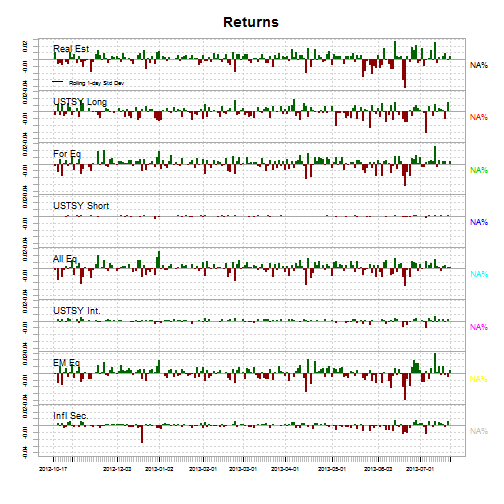
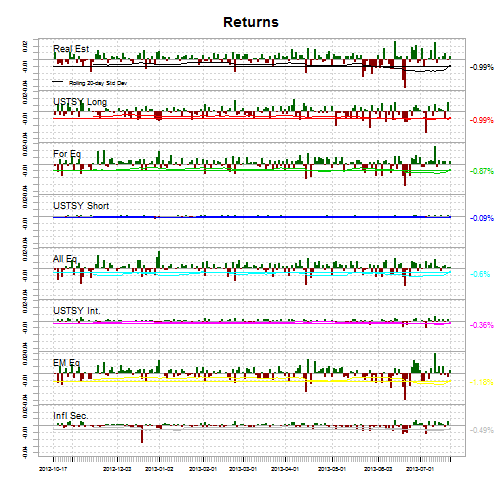
still trying

diff --git a/_posts/2013-07-22-implementing-swensen-in-R.md b/_posts/2013-07-22-implementing-swensen-in-R.md
@@ -24,7 +24,7 @@ From the article I linked to above...
 
 Asset Class | %
 ----------- | --
-Domestic Stocks | 30%
+Domestic Stocks	| 30%
 Foreign Developed Stocks | 15%
 Emerging Market Stocks | 5%
 Real Estate and Natural Resources | 20%
@@ -40,7 +40,6 @@ So, on October 17th, 2012 I deployed an initial investment of 250,000 into the f
 of ETFs. This post is going to show you how to monitor such a portfolio in R. For people familiar with quantmod and Performance Analytics, the discussion will be pretty rudimentary. In the next post I will try to raise some questions about VaR excessions, drawdowns, and de-risking. So, let's get started.
 
 First we need to specify a data source and the tickers for our portfolio. I'll also fetch data for the DOW and the SP500, as well as the 2yr US swap rate. All for benchmarking purposes.
-
 
 {% highlight r %}
 library(quantmod, warn.conflicts = FALSE, quietly = TRUE)
@@ -58,7 +57,6 @@ tsy.2y <- c("DGS2")
 suppressWarnings(getData(tickers.etf, data.source))
 {% endhighlight %}
 
-
 {% highlight text %}
 VGSIX 1 
 VUSTX 2 
@@ -69,7 +67,6 @@ VFITX 6
 VEIEX 7 
 VIPSX 8
 {% endhighlight %}
-
 
 {% highlight r %}
 suppressWarnings(getData(tickers.bench, data.source))
@@ -91,6 +88,7 @@ DGS2 1
 
 I use of a couple of helper functions I wrote to make life a little easier:
 getData(), makeIndex(), calcWeights(), and getOHLC(). The code for these functions can be found at the end of this post.
+
 Next, put all the variables that were just loaded into the environment into a list and set the inception date
 of the portfolio:
 
@@ -98,20 +96,16 @@ of the portfolio:
 etfs <- list(VGSIX, VUSTX, VGTSX, VFISX, VTSMX, VFITX, VEIEX, VIPSX)
 first.date <- c("2012-10-17/")  # inception data for portfolio...
 
-# Get all the closing prices into a vector starting from the inception
-# date...
+# Get all the closing prices into a vector starting from the inception date...
 etfs_close <- getOHLC(etfs, "C")
 etfs_close <- etfs_close[first.date]
 
-# Specify the initial number of shares that were purchased and the initial
-# investment...
+# Specify the initial number of shares that were purchased and the initial investment...
 shares <- c(2347.447, 977.96, 867.798, 1167.414, 2086.846, 1080.06, 1409.844, 2615.382)
 init.invest <- 250000
 {% endhighlight %}
 
-
 Now that we have the relevant data and some information about the number of shares purchased and the original investment amount, we can set up a portfolio. First we need to sort out some basic mechanics. For example, we need to have the most recent closing price for each of the tickers we imported. We need this in order to mark-to-market the portfolio today:
-
 
 {% highlight r %}
 mtm_last <- sum(last(etfs_close) * shares)
@@ -132,7 +126,22 @@ plot.xts(port_value, las = 1)  # A line chart of the portfolio value in dollars.
 What follows is a series of functions from the PerformanceAnalytics package that will help us look at
 the performance of the portfolio. The benchmark portfolio will be a 60/40 stock and intermediate bond portfolio. I don't think using the SP500 is really a sensible benchmark because going all-in on stocks seems, well non-sensical. As it turns out, the 60/40 (just like the 1/n) portfolio is actually tough to beat. 
 
+{% highlight r %}
+bench.60 <- periodReturn(GSPC[first.date][, 4], period = "daily", subset = NULL, type = "log")
+bench.40 <- periodReturn(VFITX[first.date][, 4], period = "daily", subset = NULL, type = "log")
 
+bench_ret <- 0.6 * bench.60 + 0.4 * bench.40  # Return stream for the 60/40 benchmark portfolio...
+port_ret <- periodReturn(port_value, period = "daily", subset = NULL, type = "log")  # Ret. stream for our portfolio...
+port_index <- makeIndex(port_ret, inv = FALSE, ret = TRUE)  # Our portfolio indexed to 100 at inception...
+bench_index <- makeIndex(bench_ret, inv = FALSE, ret = TRUE)  # Benchmark portfolio indexed to 100 at our inception date...
+
+# Setting up some variables to mach the PerformanceAnalytics lexicon...
+Ra <- port_ret
+Rb <- bench_ret
+dts <- index(Ra, 0)
+Rb <- xts(Rb, dts)
+Rf <- as.numeric(last(DGS2)/100/252)
+{% endhighlight %}
 
 The performance of our portfolio relative to the benchmark:
 
@@ -142,17 +151,18 @@ chart.RelativePerformance(Ra, as.vector(Rb), main = "Relative Performace vs. Ben
 
 ![center](http://gtog.github.io/figs/2013-07-22-implementing-swensen-in-R/chartRelativePerfomance.png) 
 
-
-How much our portfolio outperforms the benchmark on an anualized basis:
+How much our portfolio outperforms the benchmark on an anuualized basis:
 
 {% highlight r %}
 act.premium <- ActivePremium(Ra, Rb, scale = 252)
 act.premium
 {% endhighlight %}
 
+
 {% highlight text %}
 ## [1] -0.04434
 {% endhighlight %}
+
 
 The weights of the portfolio at inception, now, and over time:
 
@@ -162,14 +172,12 @@ weights_init <- (first(etfs_close) * shares)/init.invest
 weights_init
 {% endhighlight %}
 
-
 {% highlight text %}
 ##            VGSIX.Close VUSTX.Close VGTSX.Close VFISX.Close VTSMX.Close
-## 2012-10-17      0.2039     0.05152     0.05078     0.05034      0.3034
-##            VFITX.Close VEIEX.Close VIPSX.Close
+## 2012-10-17      0.2039     0.05152     0.05078     0.05034      0.3034 
+              VFITX.Close VEIEX.Close VIPSX.Close
 ## 2012-10-17     0.05068      0.1515      0.1547
 {% endhighlight %}
-
 
 
 {% highlight r %}
@@ -186,6 +194,7 @@ weights_last
 ##            VFITX.Close VEIEX.Close VIPSX.Close
 ## 2013-07-22     0.04908       0.142      0.1419
 {% endhighlight %}
+
 
 {% highlight r %}
 
@@ -211,8 +220,7 @@ for (i in 1:length(tickers.etf)) {
 }
 {% endhighlight %}
 
-![center](http://gtog.github.io/figs/2013-07-22-implementing-swensen-in-R/initWeights1.png) ![center](http://gtog.github.io/figs/2013-07-22-implementing-swensen-in-R/initWeights2.png) 
-
+![center](http://gtog.github.io/figs/2013-07-22-implementing-swensen-in-R/initWeights2.png) 
 
 We can also display the prices of each sector over time:
 
@@ -236,11 +244,9 @@ for (i in 1:length(tickers.etf)) {
     temp <- as.xts(periodReturn(etfs_close[, i], period = "daily", type = "log"))
     etfs.ret <- cbind(etfs.ret, temp)
 }
-etfs.ret <- etfs.ret[, 2:9]
 names(etfs.ret) <- tickers.human
 head(etfs.ret)
 {% endhighlight %}
-
 
 {% highlight text %}
 ##              Real Est USTSY Long    For Eq USTSY Short    All Eq
@@ -277,28 +283,14 @@ Here is a chart that shows the returns for each asset class in bar chart form wi
 and the most recent 1 day VaR (95%) observation indicated by a solid line:
 
 {% highlight r %}
-par(mfrow=c(1,1))
-charts.BarVaR (etfs.ret[,1:8],
-              width = 1, gap = 0,
-              methods = "StdDev",
-              p=.95,
-              clean = "none",            
-              all = TRUE,
-              show.clean = FALSE,
-              show.horizontal = TRUE,
-              show.symmetric = FALSE,
-              show.endvalue = TRUE,
-              show.greenredbars = TRUE,
-              #legend.loc = "bottomleft",
-              ylim = NA,
-              #lwd = 2,
-              colorset = 1:12,
-              lty = 1,
-              ypad = 0,
-              legend.cex = 0.8)
+par(mfrow = c(1, 1))
+charts.BarVaR(etfs.ret[, 1:8], width = 20, gap = 0, methods = "StdDev", p = 0.95, 
+    clean = "none", all = TRUE, show.clean = FALSE, show.horizontal = TRUE, 
+    show.symmetric = FALSE, show.endvalue = TRUE, show.greenredbars = TRUE, 
+    ylim = NA, colorset = 1:12, lty = 1, ypad = 0, legend.cex = 0.8)
 {% endhighlight %}
 
-![center](http://gtog.github.io/figs/2013-07-22-implementing-swensen-in-R/returnAnalysis2.png) 
+![center](http://gtog.github.io/figs/2013-07-22-implementing-swensen-in-R/returnAnalysis1.png) ![center](http://gtog.github.io/figs/2013-07-22-implementing-swensen-in-R/returnAnalysis2.png) 
 
 
 Here is a nice table of CAPM parameters:
@@ -309,19 +301,20 @@ table.CAPM(Ra, Rb, scale = 252, Rf = Rf, digits = 4)
 
 
 
-{% highlight text %}                     
-Alpha                                      -0.0002
-Beta                                        1.1291
-Beta+                                       1.0792
-Beta-                                       1.2131
-R-squared                                   0.8743
-Annualized Alpha                           -0.0512
-Correlation                                 0.9351
-Correlation p-value                         0.0000
-Tracking Error                              0.0000
-Active Premium                             -0.0443
-Information Ratio                             -Inf
-Treynor Ratio                               0.0503
+{% highlight text %}
+                     
+ Alpha                                      -0.0002
+ Beta                                        1.1291
+ Beta+                                       1.0792
+ Beta-                                       1.2131
+ R-squared                                   0.8743
+ Annualized Alpha                           -0.0512
+ Correlation                                 0.9351
+ Correlation p-value                         0.0000
+ Tracking Error                              0.0000
+ Active Premium                             -0.0443
+ Information Ratio                             -Inf
+ Treynor Ratio                               0.0503
 {% endhighlight %}
 
 
@@ -365,76 +358,3 @@ Thanks for reading!
 Disclaimer: This blog post is not intended as investment advice and was written for information
 purposes only. Please take care when running your own portfolio. Nobody cares as much about 
 your money as you do.
-
-Code Snippets for Helper Functions:
-{% highlight r %}
-
-getData<-function(tickers,datasrc){
-  for (i in 1:length(tickers)){
-    cat(tickers[i],i,"\n")
-    getSymbols(tickers[i],src=datasrc,
-               auto.assign=getOption("getSymbols.auto.assign",TRUE),
-               env=parent.frame())
-  }
-}
-
-
-makeIndex<-function(x,inv,ret){
-  # Takes an xts object x and returns an index starting at 100 and evolving as the log returns of x.
-  # The inv flag tells whether or not to invert the series before calculating returns.
-  # The ret flag tells whether or not we have been passed a series of returns already.
-  init.val<-100
-  dts<-index(x,0)
-  if (inv==TRUE) data<-1/x else data<-x
-  if (ret==TRUE){ # we have a series of returns...
-    ret.series<-x
-  } else {
-    ret.series<-periodReturn(data,period="daily",subset=NULL,type="log")
-    dts<-index(ret.series,0)
-  }
-  n<-length(ret.series)
-  new.series<-ret.series
-  new.series[1]<-init.val
-  
-  for (i in 2:n){
-    new.series[i]<-(1+ret.series[i-1])*new.series[i-1]
-  }
-  names(new.series)<-c("index")
-  return(new.series)
-} # My custom index funtion for converting indices to 100 based at inception.
-
-
-calcWeights<-function(prices,numshares,initial){
-  ret<-NULL
-  for (i in 1:length(numshares)){
-    sh<-numshares[i]
-    ret<-cbind(ret,sh*prices[,i]/initial)
-  }
-  return(ret)
-}
-
-
-getOHLC<-function(assets,OHLC){
-  # Takes a list of assets and returns either the Open, High, Low, or Close depending
-  # on the passed value of HLOC. Return value is of type xts/zoo.
-  ret<-NULL
-  for (i in 1:length(assets)){
-    if (OHLC=="O" || OHLC=="Open"){
-      ret<-cbind(ret,assets[[i]][,1])
-    } else {
-      if (OHLC=="H" || OHLC=="High"){
-        ret<-cbind(ret,assets[[i]][,2])
-      } else {
-        if (OHLC=="L" || OHLC=="Low"){
-          ret<-cbind(ret,assets[[i]][,3])
-        } else {
-          if (OHLC=="C" || OHLC=="Close"){
-            ret<-cbind(ret,assets[[i]][,4])
-          }
-        }
-      }
-    }
-  }
-  return(ret)
-}
-{% endhighlight %}
